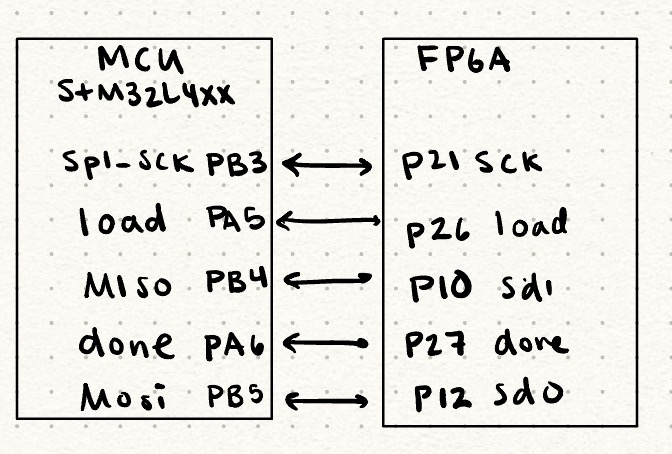
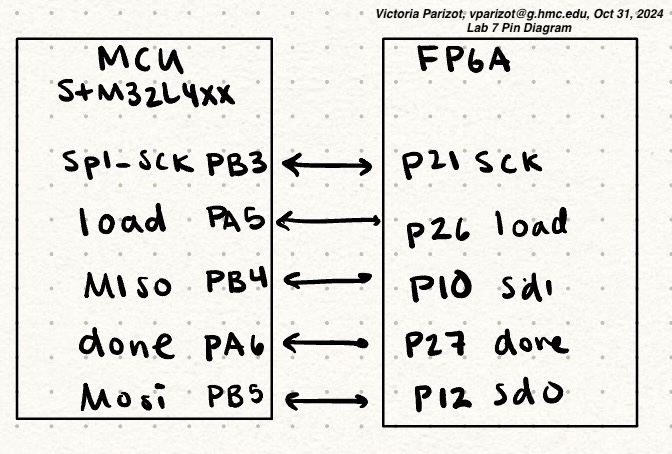
Built site for gh-pages

Changed region(s): [[0.5625, 0.0, 1.0, 0.0925]]

diff --git a/labs/lab6/lab6.html b/labs/lab6/lab6.html
@@ -7,9 +7,10 @@
 <meta name="viewport" content="width=device-width, initial-scale=1.0, user-scalable=yes">
 
 <meta name="author" content="Victoria Parizot">
-<meta name="dcterms.date" content="2024-10-21">
+<meta name="dcterms.date" content="2024-11-05">
+<meta name="description" content="An application of SPI to Read Temperature">
 
-<title>MicroPs Lab 6 – Victoria Parizot</title>
+<title>Lab 6: The Internet of Things and Serial Peripheral Interface – Victoria Parizot</title>
 <style>
 code{white-space: pre-wrap;}
 span.smallcaps{font-variant: small-caps;}
@@ -69,6 +70,35 @@ ul.task-list li input[type="checkbox"] {
   }
 }</script>
 
+  <script src="https://cdnjs.cloudflare.com/polyfill/v3/polyfill.min.js?features=es6"></script>
+  <script src="https://cdn.jsdelivr.net/npm/mathjax@3/es5/tex-chtml-full.js" type="text/javascript"></script>
+
+<script type="text/javascript">
+const typesetMath = (el) => {
+  if (window.MathJax) {
+    // MathJax Typeset
+    window.MathJax.typeset([el]);
+  } else if (window.katex) {
+    // KaTeX Render
+    var mathElements = el.getElementsByClassName("math");
+    var macros = [];
+    for (var i = 0; i < mathElements.length; i++) {
+      var texText = mathElements[i].firstChild;
+      if (mathElements[i].tagName == "SPAN") {
+        window.katex.render(texText.data, mathElements[i], {
+          displayMode: mathElements[i].classList.contains('display'),
+          throwOnError: false,
+          macros: macros,
+          fleqn: false
+        });
+      }
+    }
+  }
+}
+window.Quarto = {
+  typesetMath
+};
+</script>
 
 <link rel="stylesheet" href="../../styles.css">
 </head>
@@ -166,7 +196,16 @@ ul.task-list li input[type="checkbox"] {
     <h2 id="toc-title">On this page</h2>
    
   <ul>
-  <li><a href="#lab-6-the-internet-of-things-and-serial-peripheral-interface" id="toc-lab-6-the-internet-of-things-and-serial-peripheral-interface" class="nav-link active" data-scroll-target="#lab-6-the-internet-of-things-and-serial-peripheral-interface">Lab 6: The Internet of Things and Serial Peripheral Interface</a></li>
+  <li><a href="#introduction-learning-objectives" id="toc-introduction-learning-objectives" class="nav-link active" data-scroll-target="#introduction-learning-objectives">Introduction &amp; Learning Objectives</a></li>
+  <li><a href="#design" id="toc-design" class="nav-link" data-scroll-target="#design">Design</a>
+  <ul class="collapse">
+  <li><a href="#mcu-spi-configuration" id="toc-mcu-spi-configuration" class="nav-link" data-scroll-target="#mcu-spi-configuration">MCU SPI Configuration</a></li>
+  <li><a href="#interfacing-with-the-temperature-sensor" id="toc-interfacing-with-the-temperature-sensor" class="nav-link" data-scroll-target="#interfacing-with-the-temperature-sensor">Interfacing with the Temperature Sensor</a></li>
+  <li><a href="#website-design" id="toc-website-design" class="nav-link" data-scroll-target="#website-design">Website Design</a></li>
+  <li><a href="#hardware-design" id="toc-hardware-design" class="nav-link" data-scroll-target="#hardware-design">Hardware Design</a></li>
+  </ul></li>
+  <li><a href="#testing-debugging" id="toc-testing-debugging" class="nav-link" data-scroll-target="#testing-debugging">Testing &amp; Debugging</a></li>
+  <li><a href="#conclusion" id="toc-conclusion" class="nav-link" data-scroll-target="#conclusion">Conclusion</a></li>
   </ul>
 </nav>
     </div>
@@ -175,13 +214,18 @@ ul.task-list li input[type="checkbox"] {
 
 <header id="title-block-header" class="quarto-title-block default">
 <div class="quarto-title">
-<h1 class="title">MicroPs Lab 6</h1>
+<h1 class="title">Lab 6: The Internet of Things and Serial Peripheral Interface</h1>
   <div class="quarto-categories">
     <div class="quarto-category">reflection</div>
     <div class="quarto-category">labreport</div>
   </div>
   </div>
 
+<div>
+  <div class="description">
+    An application of SPI to Read Temperature
+  </div>
+</div>
 
 
 <div class="quarto-title-meta">
@@ -196,7 +240,7 @@ ul.task-list li input[type="checkbox"] {
     <div>
     <div class="quarto-title-meta-heading">Published</div>
     <div class="quarto-title-meta-contents">
-      <p class="date">October 21, 2024</p>
+      <p class="date">November 5, 2024</p>
     </div>
   </div>
   
@@ -208,8 +252,99 @@ ul.task-list li input[type="checkbox"] {
 </header>
 
 
-<section id="lab-6-the-internet-of-things-and-serial-peripheral-interface" class="level2">
-<h2 class="anchored" data-anchor-id="lab-6-the-internet-of-things-and-serial-peripheral-interface">Lab 6: The Internet of Things and Serial Peripheral Interface</h2>
+<section id="introduction-learning-objectives" class="level2">
+<h2 class="anchored" data-anchor-id="introduction-learning-objectives">Introduction &amp; Learning Objectives</h2>
+<p>In Lab 6, I built an internet-accessible device to control an onboard LED and measure ambient temperature. I used an ESP8255, the MCU GPIO, a DS1722 temperature sensor, and SPI peripherals to view current temperature on a webserver and allow the user to control temperature resolution and an onboard LED.</p>
+This lab had the following learning objectives:
+<ul>
+<li>
+Designed and built a simple IoT device
+</li>
+<li>
+Written C libraries using the CMSIS device templates to implement the SPI functionality of the MCU
+</li>
+<li>
+Interfaced with a temperature sensor module over an SPI link
+</li>
+<li>
+Interfaced the MCU with an ESP8266 module over a UART link
+</li>
+<li>
+Use the logic analyze functionality of the scope in the Digital Lab to debug serial communication protocols and export captured signal data.
+</li>
+<li>
+Written a simple HTML page to control and display data from the peripherals connected to your MCU.
+</li>
+</ul>
+<p>The datasheet for the DS1722 temperature sensor can be found <a href="https://hmc-e155.github.io/assets/doc/ds1722.pdf">here</a>.</p>
+<p>The source code for the project can be found in the associated <a href="https://github.com/vparizot/e155-lab6">Github repository</a>.</p>
+</section>
+<section id="design" class="level2">
+<h2 class="anchored" data-anchor-id="design">Design</h2>
+<section id="mcu-spi-configuration" class="level3">
+<h3 class="anchored" data-anchor-id="mcu-spi-configuration">MCU SPI Configuration</h3>
+<p>To implement SPI on the MCU, I implemented initSPI, a function to initialize SPI communication using a choosen baud rate, clock phase, and clock polarity,</p>
+<p>Recall that the SPI clk will be equal to <span class="math inline">\(\frac{master clock}{2^{BR+1}}\)</span>. I set the baud rate to be 6 so that the SPI clock would run slower than the clock for the temperature sensor. I also set the packet size to 8 bits to align with what the temperature sensor will output.</p>
+<p>I opted to control my own chip enable, PA8, which I would manually toggle for each read and write operation. For my other SPI ports, I consulted the data sheet to see which pins were compatible with SPI1. Thus, I opted to set PA6 as the MISO line, PA12 as the MOSI line, and PA5 and the SCLK.</p>
+<p>My design uses the CMSIS library device templates, making it easier to decipher how bits are being set.</p>
+</section>
+<section id="interfacing-with-the-temperature-sensor" class="level3">
+<h3 class="anchored" data-anchor-id="interfacing-with-the-temperature-sensor">Interfacing with the Temperature Sensor</h3>
+<p>To communicate with the temperature sensor, I had to send the write address, 0x80, for the configuration bits followed by the configuration bits. These configuration bits were set depending on the wanted temperature resolution. Then I would read the LSB and MSB of the temperature bits by calling read address 0x01 or 0x02, respectfully. The Register Address structure and the bit structure of the temperature output is below.</p>
+<div class="quarto-figure quarto-figure-center">
+<figure class="figure">
+<p><img src="images/RegisterAddressStructure.png" class="img-fluid figure-img"></p>
+<figcaption>Register Address Structure for DS1722</figcaption>
+</figure>
+</div>
+<div class="quarto-figure quarto-figure-center">
+<figure class="figure">
+<p><img src="images/TemperatureBitStructure.png" class="img-fluid figure-img"></p>
+<figcaption>Temperature Bit Structure for DS1722</figcaption>
+</figure>
+</div>
+<p>The screenshot of the code for my SPI interaction is below to showcase the send/recieve format and how I toggle the Chip Enable.</p>
+<div class="quarto-figure quarto-figure-center">
+<figure class="figure">
+<p><img src="images/SPIcodeInteraction.png" class="img-fluid figure-img"></p>
+<figcaption>SPI Interaction with Temperature Sensor</figcaption>
+</figure>
+</div>
+<p>To be able to print the temperature, I used a bit map to isolate the sign bit in the MSB. I then used the other values of the MSB to determine the integer value of the temperature. Then, depending on if the temperature was positive or negative, I would add or subtract corresponding resolution bits.</p>
+</section>
+<section id="website-design" class="level3">
+<h3 class="anchored" data-anchor-id="website-design">Website Design</h3>
+<p>My website also allowed for a user to select the resolution of the temperature sensor. To implement this, I incorporated a form with a button for each resolution option. Depending on which button was selected, I would set the temperature configuration bits to reflect this. This HTML was sent via the ESP8266 with UART.</p>
+<p>Everytime the website would refresh, the DS1722 would read and print the updated temperature.</p>
+</section>
+<section id="hardware-design" class="level3">
+<h3 class="anchored" data-anchor-id="hardware-design">Hardware Design</h3>
+<p>To implement in hardware, I attatched the corresponding pins of the DS1722 and ESP8266 to the MCU, based on the pin diagram below.</p>
+<div class="quarto-figure quarto-figure-center">
+<figure class="figure">
+<p><img src="images/pinDiagram.jpeg" class="img-fluid figure-img"></p>
+<figcaption>SPI Interaction with Temperature Sensor</figcaption>
+</figure>
+</div>
+</section>
+</section>
+<section id="testing-debugging" class="level2">
+<h2 class="anchored" data-anchor-id="testing-debugging">Testing &amp; Debugging</h2>
+<p>I tested using the debugger in Segger and the logic analyzer.</p>
+<p>The printf() function was used to reveal intermediate values of my temperature data, allowing me to see when the temperature data was not as expected. This technique was useful in confirming that my temperature conversions were as desired.</p>
+<p>The logic analyzer allowed me to look at the SPI communications. I could also convert the MISO and MOSI lines to the actual values being sent, which made deciphering the communication much easier. By using the logic analyzer I was able to find a bug: only my 0x80 send request was being sent and the rest of the communication was all zero. This led me to look at my wiring. Ultimately, I had forgotten to remove a jumper between the pin for my MISO line and GND.</p>
+<p>A sample SPI transaction from logic analyzer can be seen below.</p>
+<div class="quarto-figure quarto-figure-center">
+<figure class="figure">
+<p><img src="images/DS1Z_QuickPrint12.png" class="img-fluid figure-img"></p>
+<figcaption>Lab 6 SPI Transaction on Logic Analyzer</figcaption>
+</figure>
+</div>
+</section>
+<section id="conclusion" class="level2">
+<h2 class="anchored" data-anchor-id="conclusion">Conclusion</h2>
+<p>Lab 6 provided an introduction into SPI and UART. Moreover, I grew more comfortable with additional debugging tools, such as using the debug mode and the logic analyzer to decipher SPI communication.</p>
+<p>Lab 6 meets all the requirements for excellence, and took me approximately 25 hours to complete.</p>
 
 
 </section>

diff --git a/labs/lab7/lab7.html b/labs/lab7/lab7.html
@@ -213,7 +213,7 @@ ul.task-list li input[type="checkbox"] {
 
 <section id="introduction-learning-objectives" class="level2">
 <h2 class="anchored" data-anchor-id="introduction-learning-objectives">Introduction &amp; Learning Objectives</h2>
-<p>In Lab 7, I constructed a hardware accelerator to perform 128-bit AES encryption, taking in a plaintext message and key from the MCU via SPI to the FPGA to produce and send back cyphertext. The Learning Objectives of this lab are to:</p>
+<p>In Lab 7, I constructed a hardware accelerator to perform 128-bit AES encryption, taking in a plaintext message and key from the MCU via SPI, and generating and sending the cyphertext from the FPGA. This lab had the following learning objectives:</p>
 <ul>
 <li>
 Learned to read and implement a complex specification
@@ -237,8 +237,10 @@ Gained experience with hardware accelerators
 <section id="design" class="level2">
 <h2 class="anchored" data-anchor-id="design">Design</h2>
 <p>The size limitations on the FPGA makes it so that we are unable to implement AES as a series of combinational logic. As a result, my design reuses modules setting the outputs of a round to be the inputs of the next round.</p>
-<p>My design goes through ten rounds, where the first 9 rounds are handled by module round1to9 that runs through each step of encryption by calling submodules, subBytes, shiftRows, mixcolumns, keyExpansionRound. The tenth round goes through a seperate module round10, that replicate module round1to9 except without the mix columns step.</p>
-<p>Important variables are updated and kept in global variables. This design is summarized in my Block and Pin diagram below.</p>
+<p>My design goes through ten rounds, where the round being implemented influences the flow of the signals through the modules. For example, the output for rounds 1-9 passes through the mixColumns module, while for round 10 it does not.</p>
+<p>This method allows me to use only one instance of subBytes, shiftRows, mixcolumns, and keyExpansionRound. Important variables are updated and kept in global variables.</p>
+<p>I originally opted for not using a FSM for ‘simplicity’, but boy was I wrong. As a result, my design implied many muxes and presented my hardware in an extremely convoluted way, as reflected in the complex block diagram. An FSM would have been a way more organized way to handle the hardware design and varying cases.</p>
+<p>My design is summarized in my Block and Pin diagram below.</p>
 <div class="quarto-figure quarto-figure-center">
 <figure class="figure">
 <p><img src="images/blockdiagramFPGAlab7b.jpeg" class="img-fluid figure-img"></p>
@@ -254,17 +256,33 @@ Gained experience with hardware accelerators
 </section>
 <section id="testing-debugging" class="level2">
 <h2 class="anchored" data-anchor-id="testing-debugging">Testing &amp; Debugging</h2>
-<p>Due to the intense recursive nature of this algorithm, once a signal is incorrect, all subsequent signals are incorrect. As a result, it was beneficial to me to text each module and functionality separately, before combining into my AES_Core. I used ModelSims’ wave window to understand the timing of my system, and isolating my bugs.</p>
-<p>My design passes both the AES core and AES SPI simulation testbenches. <img src="images/aes_cor_tb_success.PNG" class="img-fluid" alt="My Design Passes the AES Core Simulation Textbench"> <img src="images/aes_spi_tb_success.PNG" class="img-fluid" alt="My Design Passes the AES SPI Simulation Textbench"></p>
-<p>After confirming my code works as expected in simulation, is was time to implement in Segger and Radiant.</p>
-<p>One bug I ran into was not having enough RAM to map my design onto my FPGA. This was because I originally made a new module for each round. To solve this issue, I implemented a recurssive design that minimized the number of modules required to go through the 10 rounds.</p>
-<p>I also hooked up my SPI communication to the logic analyzer. D0 as SCK, D2 as MOSI, D4 as Done, D5 as MISO, and D7 as the chip select.</p>
-<p><img src="images/DS1Z_QuickPrint2.png" class="img-fluid" alt="SPI Communication on Logic Analyzer"> <img src="images/DS1Z_QuickPrint3.png" class="img-fluid" alt="SPI Communication on Logic Analyzer"></p>
+<p>Due to the intense recursive nature of this algorithm, once a signal is incorrect, all subsequent signals are incorrect. As a result, it was beneficial to me to text each module and functionality separately, before testing the entire AES through the included AES_Core testbench. I used ModelSim’s wave window to understand the timing of my system, and to isolate my bugs.</p>
+<p>My design passes both the AES core and AES SPI simulation testbenches. <img src="images/aes_cor_tb_success.PNG" class="img-fluid" alt="My Design Passes the AES Core Simulation Textbench"></p>
+<div class="quarto-figure quarto-figure-center">
+<figure class="figure">
+<p><img src="images/aes_spi_tb_success.PNG" class="img-fluid figure-img"></p>
+<figcaption>My Design Passes the AES SPI Simulation Textbench</figcaption>
+</figure>
+</div>
+<p>After confirming my code works as expected in simulation, is was time to upload my code using Segger and Radiant.</p>
+<p>During my hardware integration I ran into a problem of not having enough RAM to map my design onto my FPGA. This was because I had originally made a new module for each round. To solve this issue, I implemented a recurssive design that minimized the number of modules required to go through the 10 rounds.</p>
+<p>I also hooked up my SPI communication to the logic analyzer, where I set D0 as SCK, D2 as MOSI, D4 as Done, D5 as MISO, and D7 as the chip select. The SPI communication is displayed below:</p>
+<div class="quarto-figure quarto-figure-center">
+<figure class="figure">
+<p><img src="images/DS1Z_QuickPrint2.png" class="img-fluid figure-img"></p>
+<figcaption>SPI Communication on Logic Analyzer</figcaption>
+</figure>
+</div>
+<div class="quarto-figure quarto-figure-center">
+<figure class="figure">
+<p><img src="images/DS1Z_QuickPrint3.png" class="img-fluid figure-img"></p>
+<figcaption>SPI Communication on Logic Analyzer</figcaption>
+</figure>
+</div>
 </section>
 <section id="conclusion" class="level2">
 <h2 class="anchored" data-anchor-id="conclusion">Conclusion</h2>
 <p>In lab7.c under the checkAnswer function, we observe that the LEDs on the board reflect the status of AES Encryption and SPI communication. If Lab 7 works as expected, PA9 is driven high.</p>
-<p>I originally opted for not using a FSM for ‘simplicity’, but boy was I wrong. As a result, by design implied many muxes and presented my hardware in an extremely convoluted way, as reflected in the complex block diagram. An FSM would have been a way more organized way to handle the hardware design and varying cases.</p>
 <p>When running my design, I find that PA9 is driven high. Therefore, Lab 7 meets all the requirements, and took me approximately 30 hours to complete.</p>
 
 
